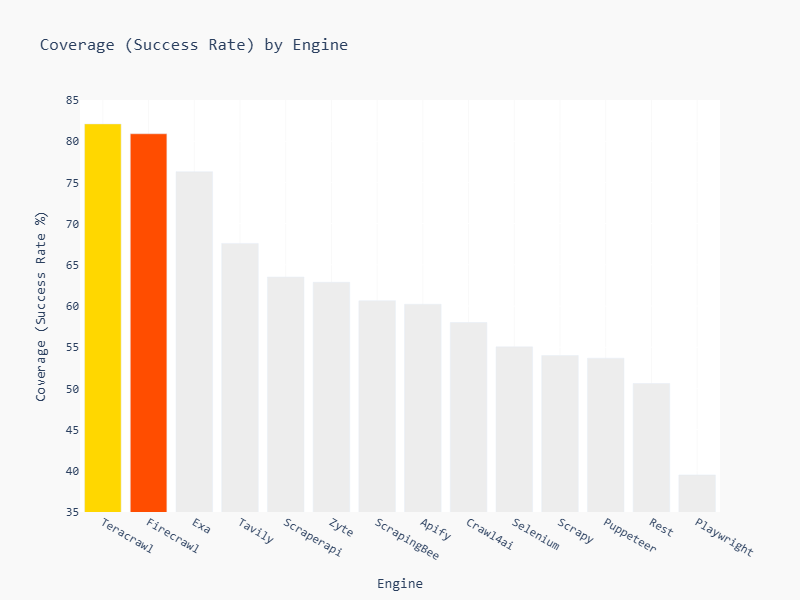
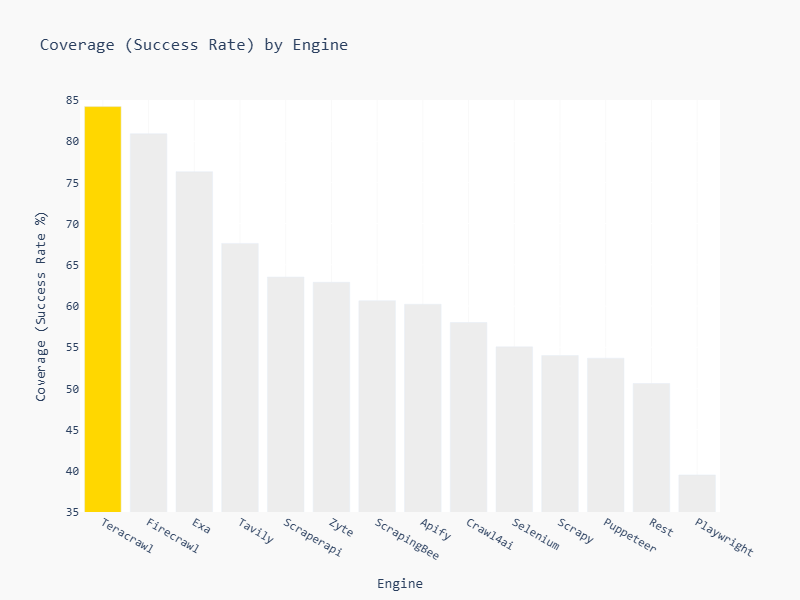
readme includes DATALAB_API_KEY + updated scrape-evals

Changed region(s): [[0.1562, 0.21, 0.2188, 0.87], [0.0938, 0.18, 0.1562, 0.21]]

diff --git a/README.md b/README.md
@@ -48,7 +48,7 @@
 
 <div align="center">
   <img src="scrape-evals.png" alt="Teracrawl achieves #1 coverage at 82.1%" width="700">
-  <p><strong>Teracrawl</strong> achieves <strong>#1 coverage (82.1%)</strong> across 14 scraping providers on the <a href="https://github.com/firecrawl/scrape-evals">scrape-evals</a> benchmark, an open evaluation framework that tests web scrapers against 1,000 diverse URLs for success rate and content quality.</p>
+  <p><strong>Teracrawl</strong> achieves <strong>#1 coverage (84.2%)</strong> across 14 scraping providers on the <a href="https://github.com/firecrawl/scrape-evals">scrape-evals</a> benchmark, an open evaluation framework that tests web scrapers against 1,000 diverse URLs for success rate and content quality.</p>
 </div>
 
 ---
@@ -250,14 +250,15 @@ curl http://localhost:8085/health
 
 ### Server & Infrastructure
 
-| Variable           | Default                 | Description                                        |
-| :----------------- | :---------------------- | :------------------------------------------------- |
-| `BROWSER_API_KEY`  | **Required**            | Your Browser.cash API key.                         |
-| `PORT`             | `8085`                  | Port for the API server.                           |
-| `HOST`             | `0.0.0.0`               | Host to bind to.                                   |
-| `SERP_SERVICE_URL` | `http://localhost:8080` | URL of the upstream SERP/Search service.           |
-| `POOL_SIZE`        | `1`                     | Number of concurrent browser sessions to maintain. |
-| `DEBUG_LOG`        | `false`                 | Enable verbose logging for debugging.              |
+| Variable           | Default                 | Description                                                           |
+| :----------------- | :---------------------- | :-------------------------------------------------------------------- |
+| `BROWSER_API_KEY`  | **Required**            | Your Browser.cash API key.                                            |
+| `PORT`             | `8085`                  | Port for the API server.                                              |
+| `HOST`             | `0.0.0.0`               | Host to bind to.                                                      |
+| `SERP_SERVICE_URL` | `http://localhost:8080` | URL of the upstream SERP/Search service.                              |
+| `POOL_SIZE`        | `1`                     | Number of concurrent browser sessions to maintain.                    |
+| `DEBUG_LOG`        | `false`                 | Enable verbose logging for debugging.                                 |
+| `DATALAB_API_KEY`  | _Optional_              | [Datalab](https://datalab.to) API key for PDF-to-Markdown conversion. |
 
 ### Crawler Tuning
 
